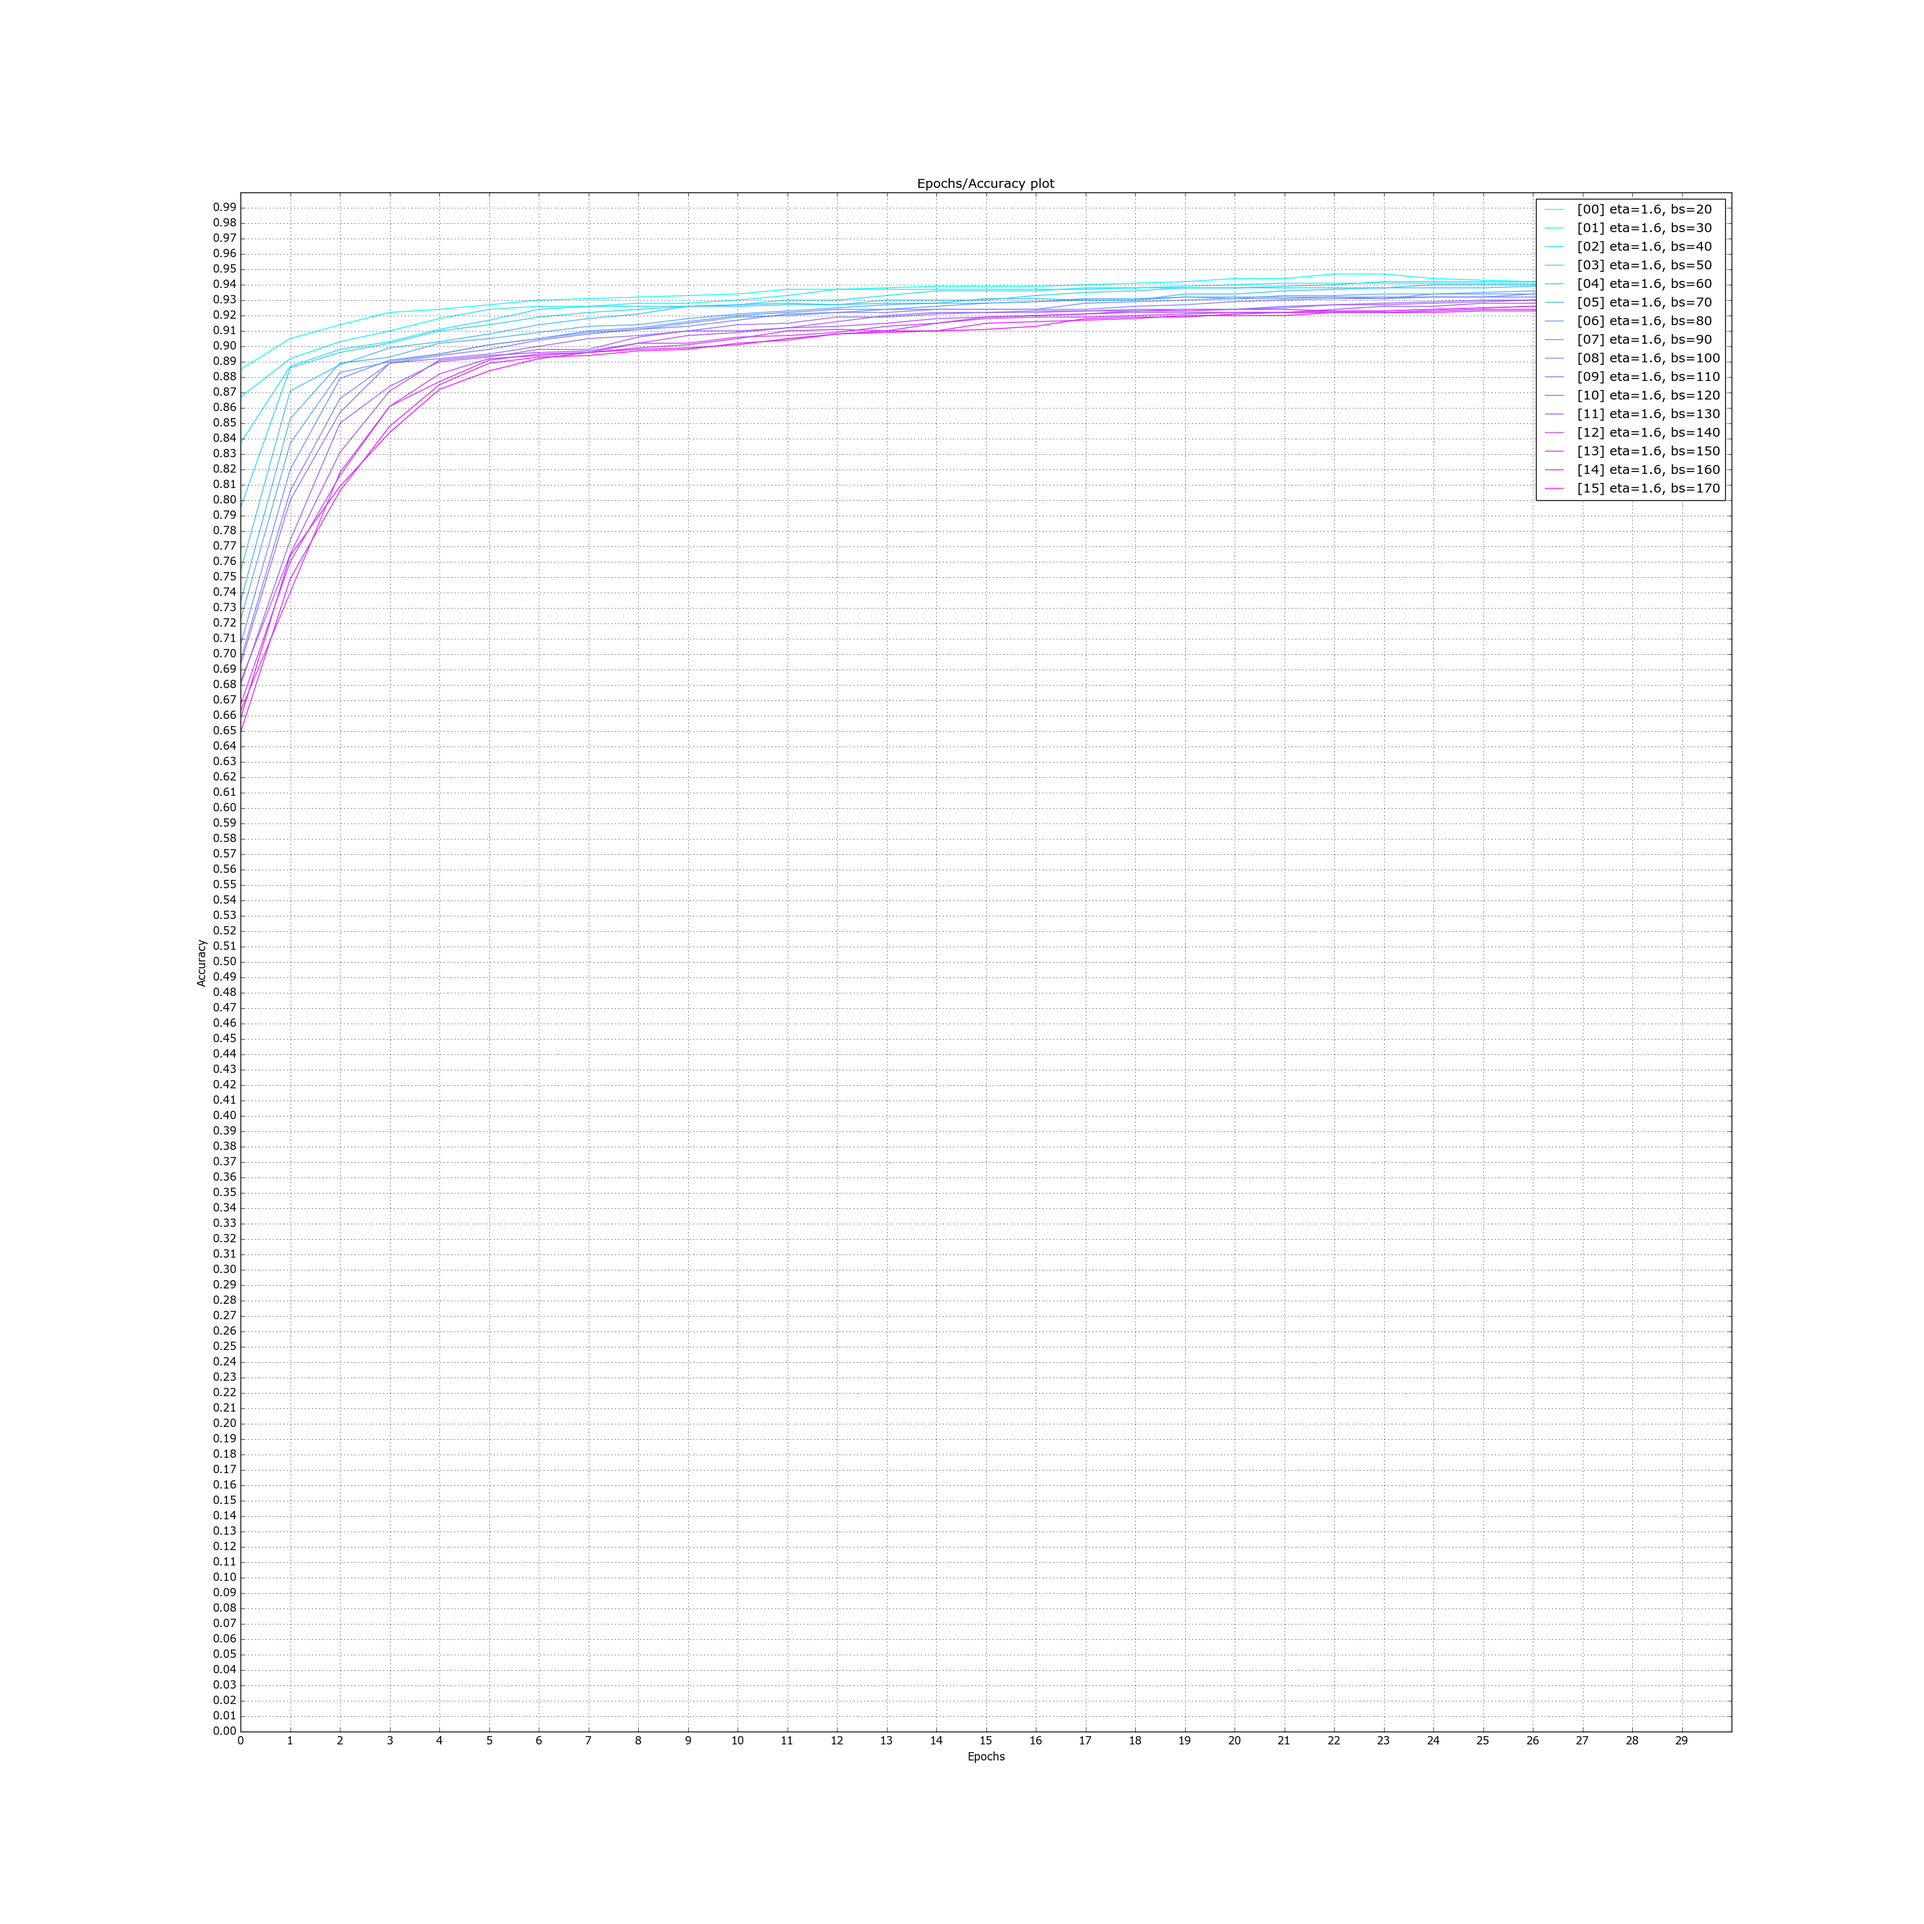
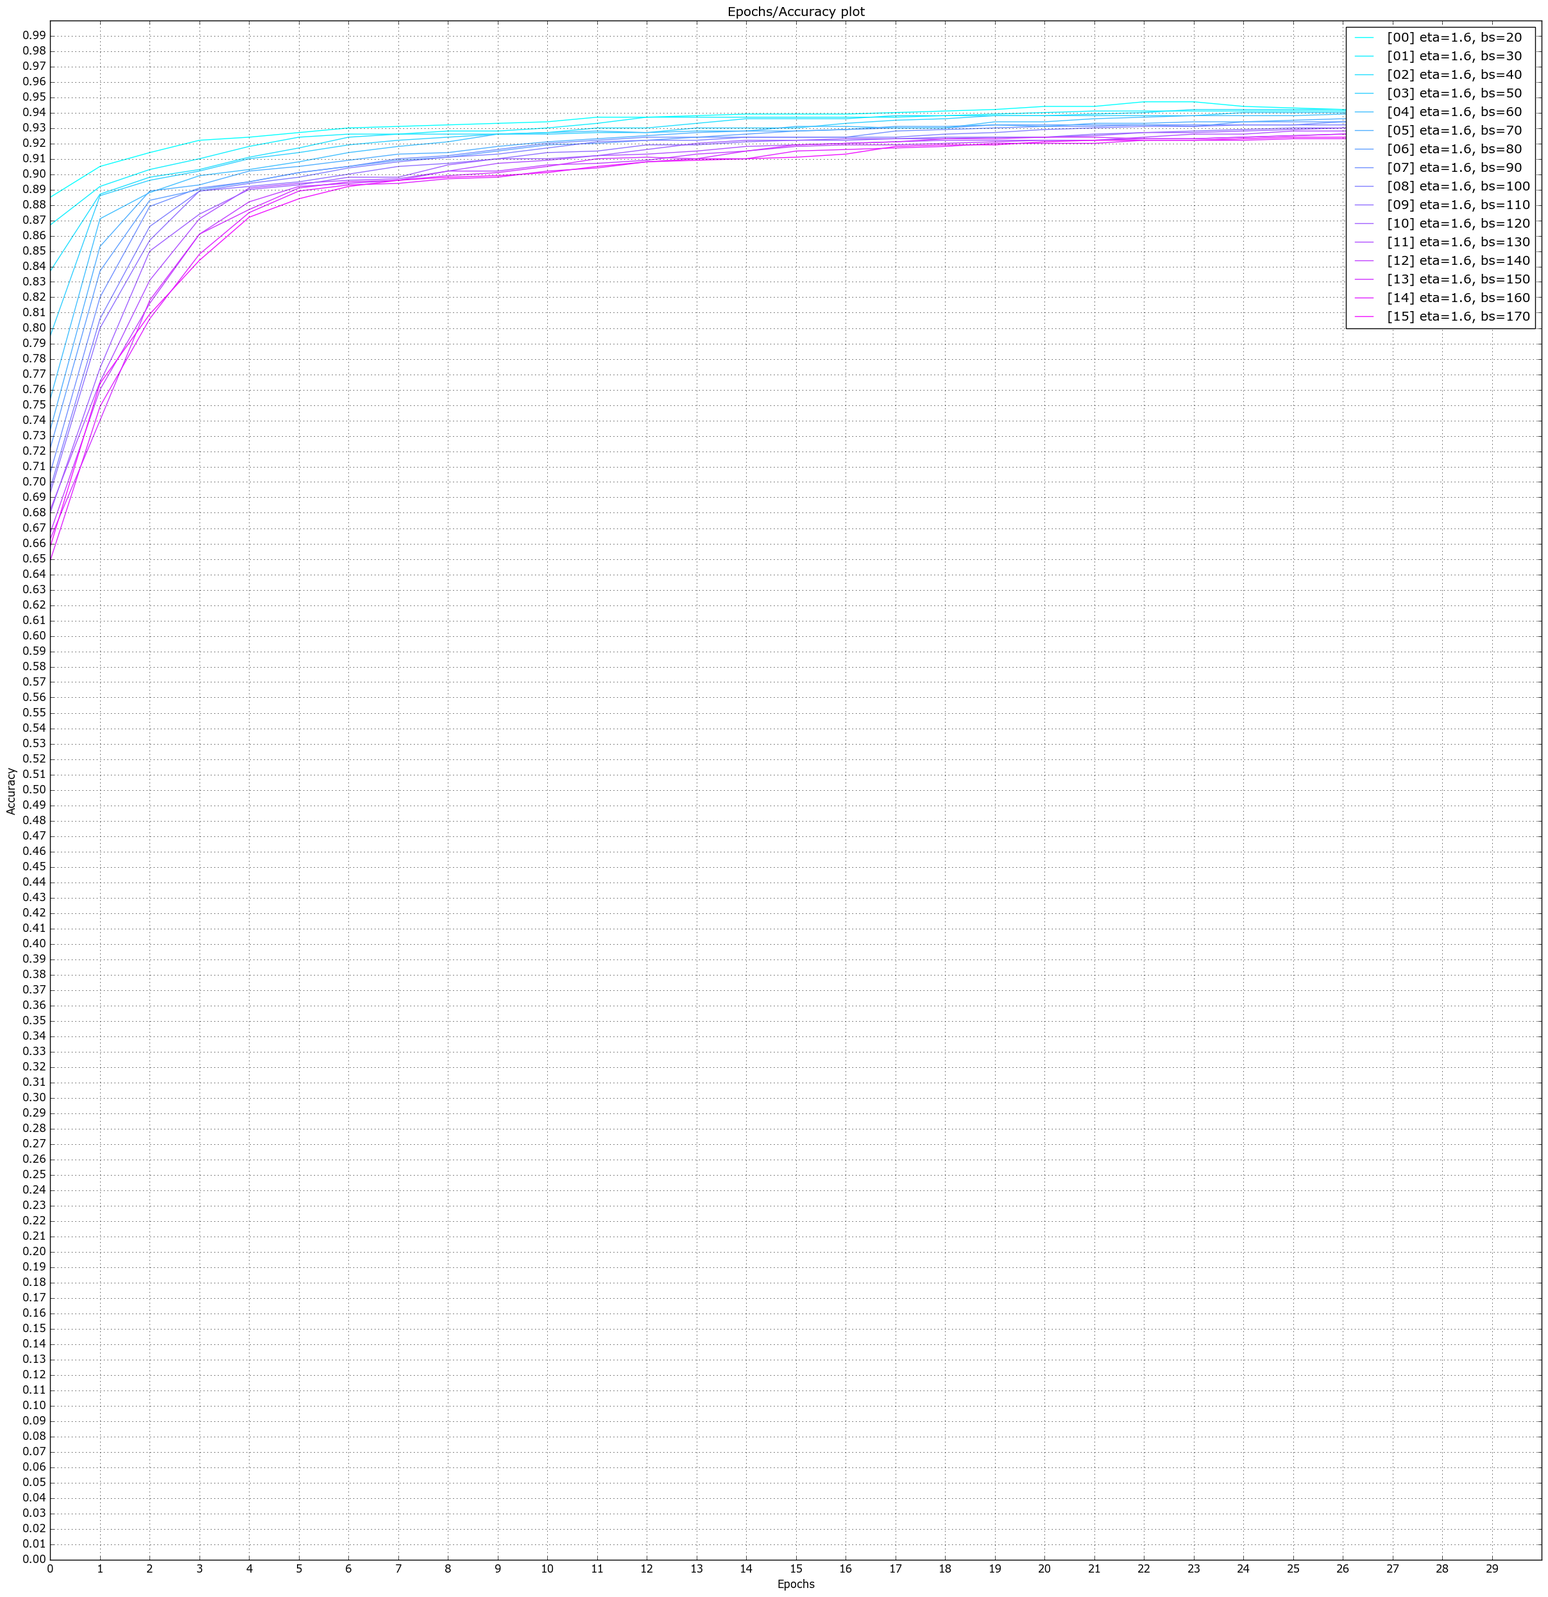
plots: use tight layout

diff --git a/source/python/py_plot.cpp b/source/python/py_plot.cpp
@@ -685,6 +685,7 @@ static char __pyx_k_color[] = "color";
 static char __pyx_k_label[] = "label";
 static char __pyx_k_numpy[] = "numpy";
 static char __pyx_k_range[] = "range";
+static char __pyx_k_tight[] = "tight";
 static char __pyx_k_title[] = "title";
 static char __pyx_k_arange[] = "arange";
 static char __pyx_k_import[] = "__import__";
@@ -700,6 +701,7 @@ static char __pyx_k_savefig[] = "savefig";
 static char __pyx_k_fancybox[] = "fancybox";
 static char __pyx_k_operator[] = "operator";
 static char __pyx_k_itemgetter[] = "itemgetter";
+static char __pyx_k_bbox_inches[] = "bbox_inches";
 static char __pyx_k_set_size_inches[] = "set_size_inches";
 static char __pyx_k_matplotlib_pyplot[] = "matplotlib.pyplot";
 static char __pyx_k_get_legend_handles_labels[] = "get_legend_handles_labels";
@@ -707,6 +709,7 @@ static PyObject *__pyx_kp_s_;
 static PyObject *__pyx_n_s__4;
 static PyObject *__pyx_n_s_arange;
 static PyObject *__pyx_n_s_axes;
+static PyObject *__pyx_n_s_bbox_inches;
 static PyObject *__pyx_n_s_cm;
 static PyObject *__pyx_n_s_color;
 static PyObject *__pyx_n_s_cool;
@@ -733,6 +736,7 @@ static PyObject *__pyx_n_s_set_size_inches;
 static PyObject *__pyx_n_s_shadow;
 static PyObject *__pyx_n_s_sorted;
 static PyObject *__pyx_n_s_test;
+static PyObject *__pyx_n_s_tight;
 static PyObject *__pyx_n_s_title;
 static PyObject *__pyx_n_s_xlabel;
 static PyObject *__pyx_n_s_xlim;
@@ -1688,7 +1692,7 @@ void save_plot(float __pyx_v_x1, float __pyx_v_x2, float __pyx_v_y1, float __pyx
  * 	ax.legend(handles2, labels2)
  * 	figure = plt.gcf()             # <<<<<<<<<<<<<<
  * 	figure.set_size_inches(30, 30)
- * 	plt.savefig(fileName)
+ * 	plt.savefig(fileName, bbox_inches='tight')
  */
   __pyx_t_5 = __Pyx_GetModuleGlobalName(__pyx_n_s_plt); if (unlikely(!__pyx_t_5)) {__pyx_filename = __pyx_f[0]; __pyx_lineno = 34; __pyx_clineno = __LINE__; goto __pyx_L1_error;}
   __Pyx_GOTREF(__pyx_t_5);
@@ -1720,7 +1724,7 @@ void save_plot(float __pyx_v_x1, float __pyx_v_x2, float __pyx_v_y1, float __pyx
  * 	ax.legend(handles2, labels2)
  * 	figure = plt.gcf()
  * 	figure.set_size_inches(30, 30)             # <<<<<<<<<<<<<<
- * 	plt.savefig(fileName)
+ * 	plt.savefig(fileName, bbox_inches='tight')
  */
   __pyx_t_1 = __Pyx_PyObject_GetAttrStr(__pyx_v_figure, __pyx_n_s_set_size_inches); if (unlikely(!__pyx_t_1)) {__pyx_filename = __pyx_f[0]; __pyx_lineno = 35; __pyx_clineno = __LINE__; goto __pyx_L1_error;}
   __Pyx_GOTREF(__pyx_t_1);
@@ -1732,42 +1736,29 @@ void save_plot(float __pyx_v_x1, float __pyx_v_x2, float __pyx_v_y1, float __pyx
   /* "plot.pyx":36
  * 	figure = plt.gcf()
  * 	figure.set_size_inches(30, 30)
- * 	plt.savefig(fileName)             # <<<<<<<<<<<<<<
+ * 	plt.savefig(fileName, bbox_inches='tight')             # <<<<<<<<<<<<<<
  */
-  __pyx_t_1 = __Pyx_GetModuleGlobalName(__pyx_n_s_plt); if (unlikely(!__pyx_t_1)) {__pyx_filename = __pyx_f[0]; __pyx_lineno = 36; __pyx_clineno = __LINE__; goto __pyx_L1_error;}
+  __pyx_t_3 = __Pyx_GetModuleGlobalName(__pyx_n_s_plt); if (unlikely(!__pyx_t_3)) {__pyx_filename = __pyx_f[0]; __pyx_lineno = 36; __pyx_clineno = __LINE__; goto __pyx_L1_error;}
+  __Pyx_GOTREF(__pyx_t_3);
+  __pyx_t_1 = __Pyx_PyObject_GetAttrStr(__pyx_t_3, __pyx_n_s_savefig); if (unlikely(!__pyx_t_1)) {__pyx_filename = __pyx_f[0]; __pyx_lineno = 36; __pyx_clineno = __LINE__; goto __pyx_L1_error;}
   __Pyx_GOTREF(__pyx_t_1);
-  __pyx_t_5 = __Pyx_PyObject_GetAttrStr(__pyx_t_1, __pyx_n_s_savefig); if (unlikely(!__pyx_t_5)) {__pyx_filename = __pyx_f[0]; __pyx_lineno = 36; __pyx_clineno = __LINE__; goto __pyx_L1_error;}
+  __Pyx_DECREF(__pyx_t_3); __pyx_t_3 = 0;
+  __pyx_t_3 = __pyx_convert_PyBytes_string_to_py_std__in_string(__pyx_v_fileName); if (unlikely(!__pyx_t_3)) {__pyx_filename = __pyx_f[0]; __pyx_lineno = 36; __pyx_clineno = __LINE__; goto __pyx_L1_error;}
+  __Pyx_GOTREF(__pyx_t_3);
+  __pyx_t_5 = PyTuple_New(1); if (unlikely(!__pyx_t_5)) {__pyx_filename = __pyx_f[0]; __pyx_lineno = 36; __pyx_clineno = __LINE__; goto __pyx_L1_error;}
   __Pyx_GOTREF(__pyx_t_5);
+  __Pyx_GIVEREF(__pyx_t_3);
+  PyTuple_SET_ITEM(__pyx_t_5, 0, __pyx_t_3);
+  __pyx_t_3 = 0;
+  __pyx_t_3 = PyDict_New(); if (unlikely(!__pyx_t_3)) {__pyx_filename = __pyx_f[0]; __pyx_lineno = 36; __pyx_clineno = __LINE__; goto __pyx_L1_error;}
+  __Pyx_GOTREF(__pyx_t_3);
+  if (PyDict_SetItem(__pyx_t_3, __pyx_n_s_bbox_inches, __pyx_n_s_tight) < 0) {__pyx_filename = __pyx_f[0]; __pyx_lineno = 36; __pyx_clineno = __LINE__; goto __pyx_L1_error;}
+  __pyx_t_9 = __Pyx_PyObject_Call(__pyx_t_1, __pyx_t_5, __pyx_t_3); if (unlikely(!__pyx_t_9)) {__pyx_filename = __pyx_f[0]; __pyx_lineno = 36; __pyx_clineno = __LINE__; goto __pyx_L1_error;}
+  __Pyx_GOTREF(__pyx_t_9);
   __Pyx_DECREF(__pyx_t_1); __pyx_t_1 = 0;
-  __pyx_t_1 = __pyx_convert_PyBytes_string_to_py_std__in_string(__pyx_v_fileName); if (unlikely(!__pyx_t_1)) {__pyx_filename = __pyx_f[0]; __pyx_lineno = 36; __pyx_clineno = __LINE__; goto __pyx_L1_error;}
-  __Pyx_GOTREF(__pyx_t_1);
-  __pyx_t_9 = NULL;
-  if (CYTHON_COMPILING_IN_CPYTHON && unlikely(PyMethod_Check(__pyx_t_5))) {
-    __pyx_t_9 = PyMethod_GET_SELF(__pyx_t_5);
-    if (likely(__pyx_t_9)) {
-      PyObject* function = PyMethod_GET_FUNCTION(__pyx_t_5);
-      __Pyx_INCREF(__pyx_t_9);
-      __Pyx_INCREF(function);
-      __Pyx_DECREF_SET(__pyx_t_5, function);
-    }
-  }
-  if (!__pyx_t_9) {
-    __pyx_t_3 = __Pyx_PyObject_CallOneArg(__pyx_t_5, __pyx_t_1); if (unlikely(!__pyx_t_3)) {__pyx_filename = __pyx_f[0]; __pyx_lineno = 36; __pyx_clineno = __LINE__; goto __pyx_L1_error;}
-    __Pyx_DECREF(__pyx_t_1); __pyx_t_1 = 0;
-    __Pyx_GOTREF(__pyx_t_3);
-  } else {
-    __pyx_t_7 = PyTuple_New(1+1); if (unlikely(!__pyx_t_7)) {__pyx_filename = __pyx_f[0]; __pyx_lineno = 36; __pyx_clineno = __LINE__; goto __pyx_L1_error;}
-    __Pyx_GOTREF(__pyx_t_7);
-    __Pyx_GIVEREF(__pyx_t_9); PyTuple_SET_ITEM(__pyx_t_7, 0, __pyx_t_9); __pyx_t_9 = NULL;
-    __Pyx_GIVEREF(__pyx_t_1);
-    PyTuple_SET_ITEM(__pyx_t_7, 0+1, __pyx_t_1);
-    __pyx_t_1 = 0;
-    __pyx_t_3 = __Pyx_PyObject_Call(__pyx_t_5, __pyx_t_7, NULL); if (unlikely(!__pyx_t_3)) {__pyx_filename = __pyx_f[0]; __pyx_lineno = 36; __pyx_clineno = __LINE__; goto __pyx_L1_error;}
-    __Pyx_GOTREF(__pyx_t_3);
-    __Pyx_DECREF(__pyx_t_7); __pyx_t_7 = 0;
-  }
   __Pyx_DECREF(__pyx_t_5); __pyx_t_5 = 0;
   __Pyx_DECREF(__pyx_t_3); __pyx_t_3 = 0;
+  __Pyx_DECREF(__pyx_t_9); __pyx_t_9 = 0;
 
   /* "plot.pyx":18
  * 	plt.plot(x, y, label=plotLabel, color=colormap(float(plotNo)/float(plot_count)))
@@ -2139,6 +2130,7 @@ static __Pyx_StringTabEntry __pyx_string_tab[] = {
   {&__pyx_n_s__4, __pyx_k__4, sizeof(__pyx_k__4), 0, 0, 1, 1},
   {&__pyx_n_s_arange, __pyx_k_arange, sizeof(__pyx_k_arange), 0, 0, 1, 1},
   {&__pyx_n_s_axes, __pyx_k_axes, sizeof(__pyx_k_axes), 0, 0, 1, 1},
+  {&__pyx_n_s_bbox_inches, __pyx_k_bbox_inches, sizeof(__pyx_k_bbox_inches), 0, 0, 1, 1},
   {&__pyx_n_s_cm, __pyx_k_cm, sizeof(__pyx_k_cm), 0, 0, 1, 1},
   {&__pyx_n_s_color, __pyx_k_color, sizeof(__pyx_k_color), 0, 0, 1, 1},
   {&__pyx_n_s_cool, __pyx_k_cool, sizeof(__pyx_k_cool), 0, 0, 1, 1},
@@ -2165,6 +2157,7 @@ static __Pyx_StringTabEntry __pyx_string_tab[] = {
   {&__pyx_n_s_shadow, __pyx_k_shadow, sizeof(__pyx_k_shadow), 0, 0, 1, 1},
   {&__pyx_n_s_sorted, __pyx_k_sorted, sizeof(__pyx_k_sorted), 0, 0, 1, 1},
   {&__pyx_n_s_test, __pyx_k_test, sizeof(__pyx_k_test), 0, 0, 1, 1},
+  {&__pyx_n_s_tight, __pyx_k_tight, sizeof(__pyx_k_tight), 0, 0, 1, 1},
   {&__pyx_n_s_title, __pyx_k_title, sizeof(__pyx_k_title), 0, 0, 1, 1},
   {&__pyx_n_s_xlabel, __pyx_k_xlabel, sizeof(__pyx_k_xlabel), 0, 0, 1, 1},
   {&__pyx_n_s_xlim, __pyx_k_xlim, sizeof(__pyx_k_xlim), 0, 0, 1, 1},
@@ -2203,7 +2196,7 @@ static int __Pyx_InitCachedConstants(void) {
  * 	ax.legend(handles2, labels2)
  * 	figure = plt.gcf()
  * 	figure.set_size_inches(30, 30)             # <<<<<<<<<<<<<<
- * 	plt.savefig(fileName)
+ * 	plt.savefig(fileName, bbox_inches='tight')
  */
   __pyx_tuple__3 = PyTuple_Pack(2, __pyx_int_30, __pyx_int_30); if (unlikely(!__pyx_tuple__3)) {__pyx_filename = __pyx_f[0]; __pyx_lineno = 35; __pyx_clineno = __LINE__; goto __pyx_L1_error;}
   __Pyx_GOTREF(__pyx_tuple__3);
